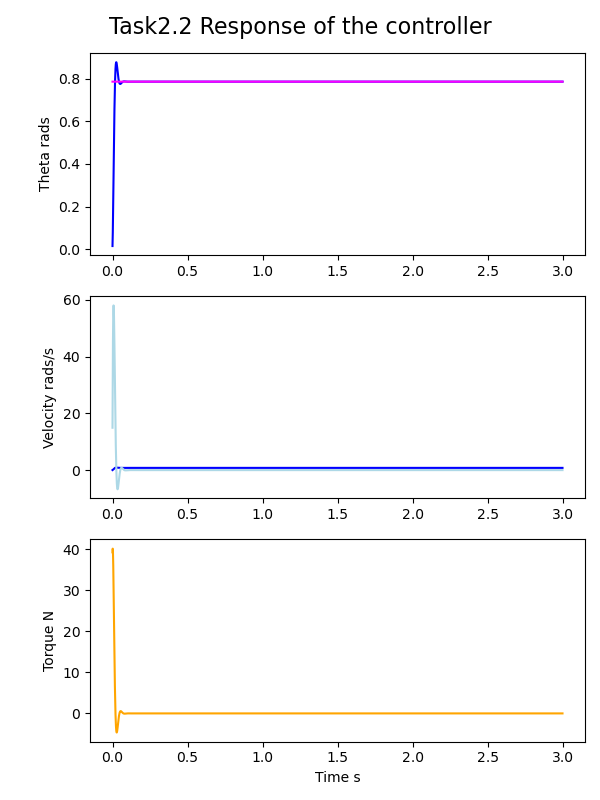
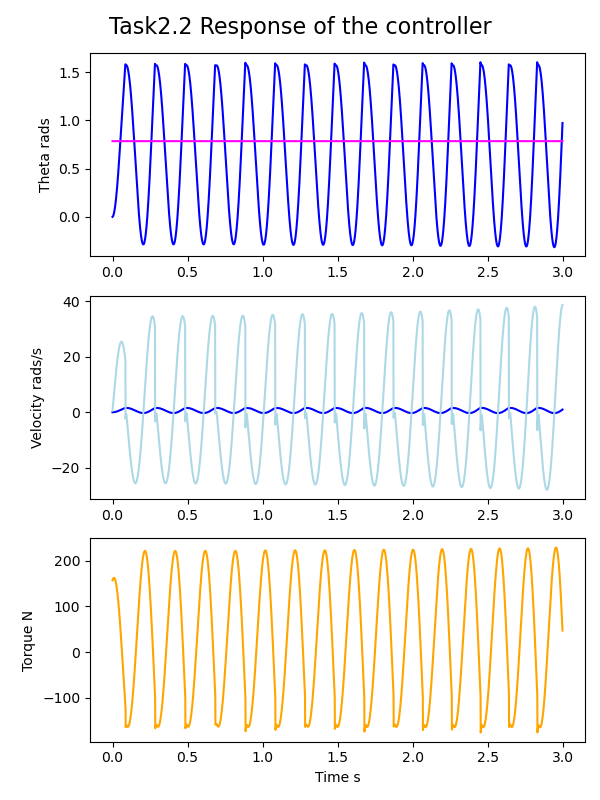
commit

diff --git a/core/Pybullet_Simulation.py b/core/Pybullet_Simulation.py
@@ -524,7 +524,7 @@ class Simulation(Simulation_base):
                                             np.array([0.58, -0.06, 0.94])],3000)
     
         for t in targetstates:
-            self.move_without_PD( endEffector, targetPosition=t, speed=0.01, orientation=np.array([1, 0, 0]), threshold=1e-3, maxIter=2, debug=False, verbose=False, task = "")
+            self.move_with_PD( endEffector, targetPosition=t, speed=0.01, orientation=np.array([1, 0, 0]), threshold=1e-3, maxIter=2, debug=False, verbose=False, task = "")
             print(self.getJointPosition(endEffector))
             print()
             print(self.getJointOrientation(endEffector))
@@ -551,7 +551,7 @@ class Simulation(Simulation_base):
             tpR = np.array([targetstatesR[s][0],targetstatesR[s][1],targetstatesR[s][2]])
             taro = np.array([1,0,0])
 
-            self.move_without_PD("LARM_JOINT5", targetPosition=tpL, speed=0.01, orientation=taro, threshold=1e-2, maxIter=2, debug=False, verbose=False, task='task_32')
-            self.move_without_PD("RARM_JOINT5", targetPosition=tpR, speed=0.01, orientation=taro, threshold=1e-2, maxIter=2, debug=False, verbose=False, task='task_32')
+            self.move_with_PD("LARM_JOINT5", targetPosition=tpL, speed=0.01, orientation=taro, threshold=1e-2, maxIter=2, debug=False, verbose=False, task='task_32')
+            self.move_with_PD("RARM_JOINT5", targetPosition=tpR, speed=0.01, orientation=taro, threshold=1e-2, maxIter=2, debug=False, verbose=False, task='task_32')
 
  ### END

diff --git a/task2/task2.py b/task2/task2.py
@@ -47,7 +47,7 @@ robotConfigs = {
 sim = Simulation(pybulletConfigs, robotConfigs)
 
 # This is an example target (angular) position for the joint LARM_JOINT2
-task2_jointName = "LARM_JOINT5"
+task2_jointName = "LARM_JOINT0"
 task2_targetPosition = np.deg2rad(45)  # joint (angular) position in radians
 task2_targetVelocity = 0.0  # joint (angular) velocity in radians per second
 verbose = False
@@ -55,7 +55,7 @@ task2_figure_name = "task2_PD_response.png"
 task2_savefig = True
 ### to here
 
-endEffector = "LARM_JOINT5"
+endEffector = "LARM_JOINT0"
 targetPosition = np.array([0.6, 0.3, 1.06])
 
 #pltTime, pltEFPosition = sim.move_with_PD(endEffector, targetPosition, speed=0.01, orientation=np.array([0,1,0]), threshold=1e-3, maxIter=100, debug=False, verbose=False, task="task_31")
@@ -93,7 +93,7 @@ plt.plot(pltTime, pltTarget, color='magenta')
 plt.ylabel("Theta rads")
 
 plt.subplot(312)
-plt.plot(pltTime, pltPosition, color='blue')#
+plt.plot(pltTime, pltPosition, color='blue')
 plt.plot(pltTime, pltVelocity, color='lightblue')
 plt.ylabel("Velocity rads/s")
 
